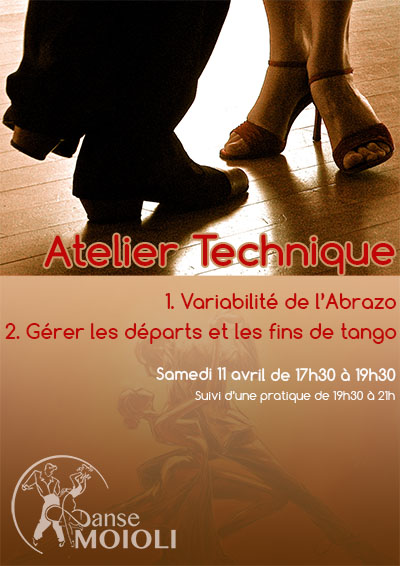
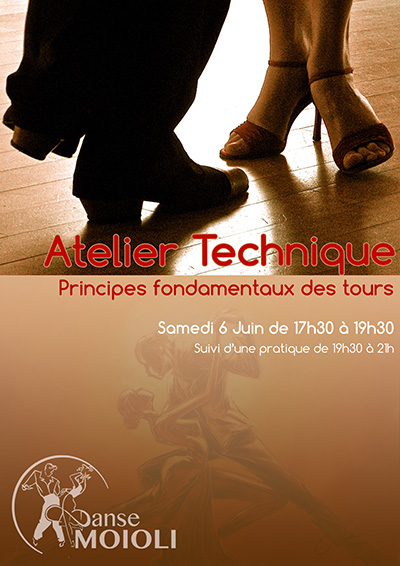
Stage technique juin 2015

Changed region(s): [[0.0, 0.3905, 0.99, 0.7208], [0.03, 0.811, 0.39, 0.9611], [0.03, 0.9311, 0.09, 0.9912]]

diff --git a/actualites/index.html b/actualites/index.html
@@ -24,17 +24,26 @@ sitemap:
 {% endcomment %}
 {% comment %}
   <div  class="col-xs-12 col-md-4 text-center">
-    <a class="alert alert-actu contrast" href="{{ site.baseurl }}/stage/stage_technique_tango_argentin_avril_2015"
-      style="background-image: url({{ site.baseurl }}/stage/stage_technique_tango_argentin_.jpg);">
-      <h4><strong>Tango argentin</strong></h4>
-      <h5>Stage de technique</h5>
-      <p><span class="fa fa-calendar"></span> 11 avril 2015</h5>
-      <p>&laquo; Variabilité de l’Abrazo &raquo;</p>
-      <p>&laquo; Gérer les départs et les fins de tango &raquo;</p>
+    <a class="alert alert-actu contrast" href="{{ site.baseurl }}/actualites/voyage_cuba"
+      style="background: url({{ site.baseurl }}/images/voyage_cuba_actualites.jpg) no-repeat #f1d9ad;">
+      <h4><strong>Voyage à Cuba</strong></h4>
+      <h5>Infos</h5>
+      <p><span class="fa fa-calendar"></span> été 2015</h5>
       <div class="clearfix"></div>
     </a>
   </div>
 {% endcomment %}
+  <div  class="col-xs-12 col-md-4 text-center">
+    <a class="alert alert-actu contrast" href="{{ site.baseurl }}/stage/stage_technique_tango_argentin_juin_2015"
+      style="background-image: url({{ site.baseurl }}/stage/stage_technique_tango_argentin_.jpg);">
+      <h4><strong>Tango argentin</strong></h4>
+      <h5>Stage de technique</h5>
+      <p><span class="fa fa-calendar"></span> 6 juin 2015</h5>
+      <p>&laquo; Tours : Principes fondamentaux &raquo;</p>
+      <div class="clearfix"></div>
+    </a>
+  </div>
+{% comment %}
   <div  class="col-xs-12 col-md-4 text-center">
     <a class="alert alert-actu" href="{{ site.baseurl }}/stage/stage_mai_2015"
       style="background-image: url({{ site.baseurl }}/stage/Stage-Juin-2014_.png);">
@@ -45,7 +54,6 @@ sitemap:
       <div class="clearfix"></div>
     </a>
   </div>
-{% comment %}
   <div  class="col-xs-12 col-md-4">
     <a class="alert alert-actu" href="{{ site.baseurl }}/stage/stage_quick_step_juin_2014"
       style="background-image: url({{ site.baseurl }}/stage/Stage-Quick-step-2014_.png);">

diff --git a/_includes/actualites.html b/_includes/actualites.html
@@ -39,21 +39,18 @@
 {% endif %}
 -->
 {% if page.categories contains "home" or page.categories contains "tango" %}
-{% comment %}
 <div class="row text-center">
   <div  class="col-xs-12 text-center">
-    <a class="alert alert-actu contrast" href="{{ site.baseurl }}/stage/stage_technique_tango_argentin_avril_2015"
+    <a class="alert alert-actu contrast" href="{{ site.baseurl }}/stage/stage_technique_tango_argentin_juin_2015"
       style="background-image: url({{ site.baseurl }}/stage/stage_technique_tango_argentin_.jpg);">
       <h4><strong>Tango argentin</strong></h4>
       <h5>Stage de technique</h5>
-      <p><span class="fa fa-calendar"></span> 11 avril 2015</h5>
-      <p>&laquo; Variabilité de l’Abrazo &raquo;</p>
-      <p>&laquo; Gérer les départs et les fins de tango &raquo;</p>
+      <p><span class="fa fa-calendar"></span> 6 juin 2015</h5>
+      <p>&laquo; Tours : Principes fondamentaux &raquo;</p>
       <div class="clearfix"></div>
     </a>
   </div>
 </div>
-{% endcomment %}
 {% comment %}
 <div class="row text-center">
   <div  class="col-xs-12 text-center">
@@ -70,6 +67,7 @@
 {% endcomment %}
 {% endif %}
 {% if page.categories contains "home" or page.categories contains "rock" or page.categories contains "latino" %}
+{% comment %}
 <div class="row text-center">
   <div  class="col-xs-12">
     <a class="alert alert-actu" href="{{ site.baseurl }}/stage/stage_mai_2015"
@@ -82,6 +80,7 @@
     </a>
   </div>
 </div>
+{% endcomment %}
 {% comment %}
 <div class="row">
   <div  class="col-xs-12">

diff --git a/stage/stage_technique_tango_argentin_juin_2015.html b/stage/stage_technique_tango_argentin_juin_2015.html
@@ -1,0 +1,28 @@
+---
+title: Stage de Technique Tango Argentin - Juin 2015
+layout: default
+---
+
+<h2>Stage de technique - Tango Argentin</h2>
+
+<div class="row">
+  <div class="col-xs-12">
+    <p><em>6 juin 2015 de 17h30 à 19h30</em></p>
+    <blockquote>&laquo; Tours : Principes fondamentaux &raquo;</blockquote>
+
+    <p class="text-center">
+      <a href="{{ site.baseurl }}/pdf/stage_technique_juin_2015.pdf" target="_blank">
+        <span class="fa fa-file-text-o"></span>
+          Voir les infos détaillées
+          <br>
+          <br>
+        <img src="{{ site.baseurl }}/stage/stage_technique_tango_argentin.jpg"/>
+      </a>
+    </p>
+    <p>Si vous êtes intéressés, vous pouvez ensuite remplir le formulaire ci-dessous.
+    </p>
+    <p>
+    <iframe src="https://docs.google.com/forms/d/1W6bMROsSB7PsgkiiqSHtK-Ad-ejK6ucbYMefzkc7fBo/viewform?embedded=true" width="650" height="900" frameborder="0" marginheight="0" marginwidth="0">Chargement...</iframe>
+    </p>
+  </div>
+</div>
